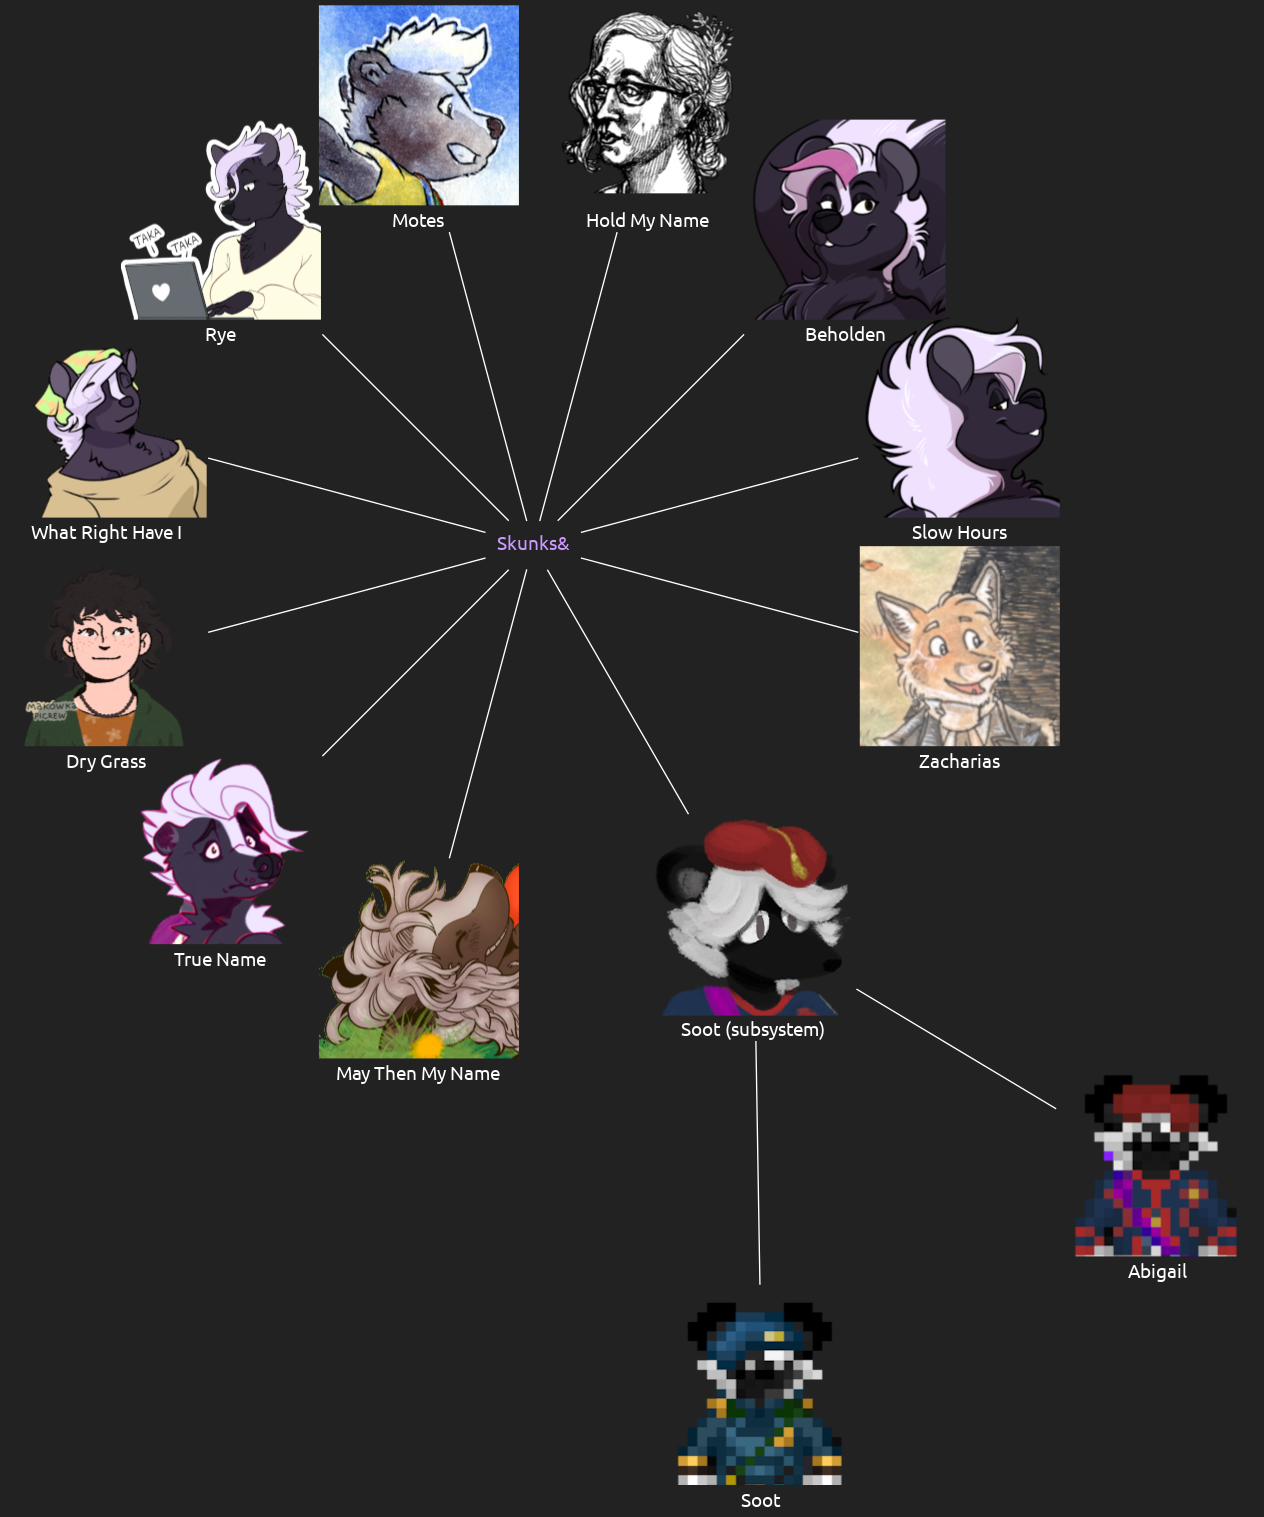
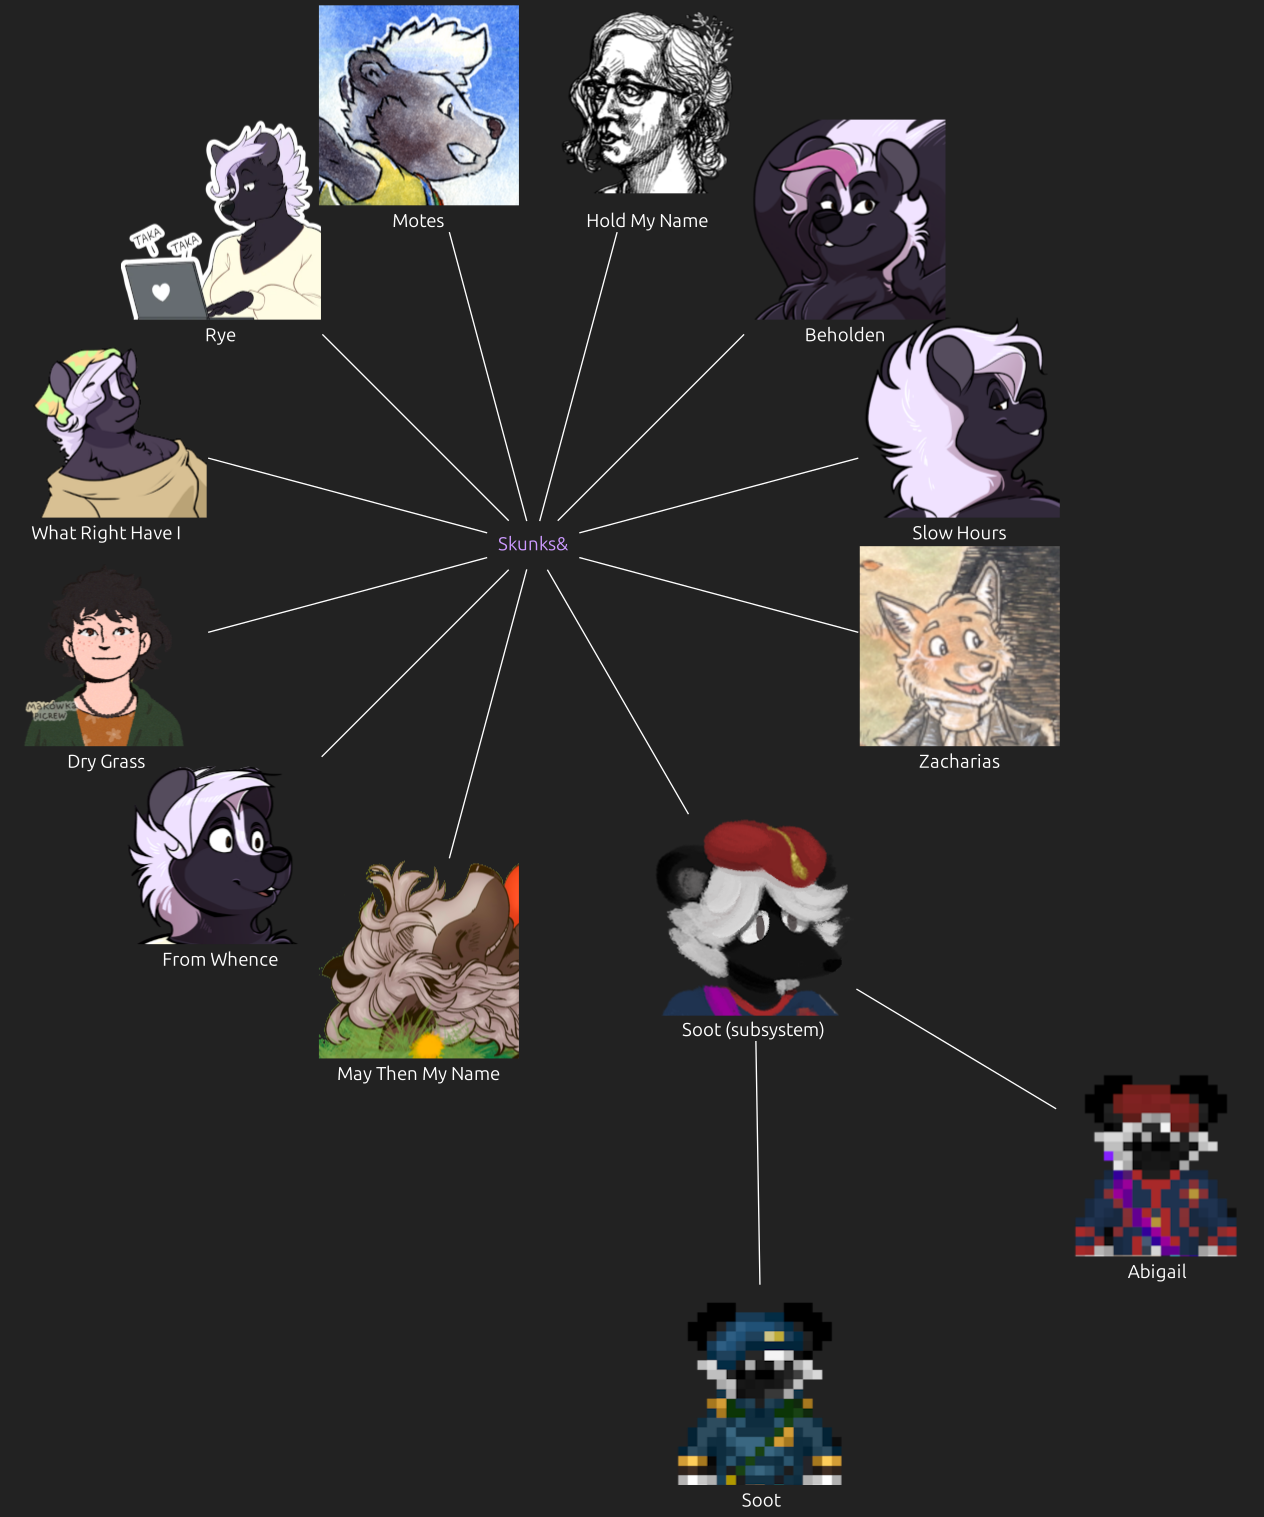
From Whence

diff --git a/plural/index.html b/plural/index.html
@@ -114,7 +114,7 @@
 <!-- system&#45;&#45;slow -->
 <g id="edge1" class="edge">
 <title>system&#45;&#45;slow</title>
-<path fill="none" stroke="#ffffff" d="M431.68,-734.41C481.74,-747.83 573.93,-772.53 639.72,-790.16"/>
+<path fill="none" stroke="#ffffff" d="M430.46,-734.08C480.22,-747.42 573.38,-772.38 639.72,-790.16"/>
 </g>
 <!-- beholden -->
 <g id="node3" class="node">
@@ -184,7 +184,7 @@
 <!-- system&#45;&#45;whatright -->
 <g id="edge6" class="edge">
 <title>system&#45;&#45;whatright</title>
-<path fill="none" stroke="#ffffff" d="M360.15,-734.41C310.09,-747.83 217.9,-772.53 152.11,-790.16"/>
+<path fill="none" stroke="#ffffff" d="M361.37,-734.08C311.61,-747.42 218.45,-772.38 152.11,-790.16"/>
 </g>
 <!-- drygrass -->
 <g id="node8" class="node">
@@ -198,21 +198,21 @@
 <!-- system&#45;&#45;drygrass -->
 <g id="edge7" class="edge">
 <title>system&#45;&#45;drygrass</title>
-<path fill="none" stroke="#ffffff" d="M360.15,-715.25C310.09,-701.83 217.9,-677.13 152.11,-659.5"/>
+<path fill="none" stroke="#ffffff" d="M361.37,-715.57C311.61,-702.24 218.45,-677.28 152.11,-659.5"/>
 </g>
-<!-- truename -->
+<!-- fromwhence -->
 <g id="node9" class="node">
-<title>truename</title>
-<g id="a_node9"><a xlink:href="#true-name" xlink:title="True Name">
-<image xlink:href="thumbs/true-name.png" width="152px" height="170px" preserveAspectRatio="xMinYMin meet" x="85.7209" y="-575.636"/>
-<text text-anchor="middle" x="161.72" y="-409.44" font-family="Ubuntu" font-size="14.00" fill="#ffffff">True Name</text>
+<title>fromwhence</title>
+<g id="a_node9"><a xlink:href="#from-whence" xlink:title="From Whence">
+<image xlink:href="thumbs/from-whence.png" width="151px" height="170px" preserveAspectRatio="xMinYMin meet" x="86.2209" y="-575.636"/>
+<text text-anchor="middle" x="161.72" y="-409.44" font-family="Ubuntu" font-size="14.00" fill="#ffffff">From Whence</text>
 </a>
 </g>
 </g>
-<!-- system&#45;&#45;truename -->
+<!-- system&#45;&#45;fromwhence -->
 <g id="edge8" class="edge">
-<title>system&#45;&#45;truename</title>
-<path fill="none" stroke="#ffffff" d="M377.54,-706.45C347.72,-676.64 287.17,-616.08 237.77,-566.69"/>
+<title>system&#45;&#45;fromwhence</title>
+<path fill="none" stroke="#ffffff" d="M377.54,-706.45C347.61,-676.53 286.73,-615.65 237.24,-566.15"/>
 </g>
 <!-- may -->
 <g id="node10" class="node">
@@ -254,7 +254,7 @@
 <!-- system&#45;&#45;zacharias -->
 <g id="edge13" class="edge">
 <title>system&#45;&#45;zacharias</title>
-<path fill="none" stroke="#ffffff" d="M431.68,-715.25C481.74,-701.83 573.93,-677.13 639.72,-659.5"/>
+<path fill="none" stroke="#ffffff" d="M430.46,-715.57C480.22,-702.24 573.38,-677.28 639.72,-659.5"/>
 </g>
 <!-- soot_soot -->
 <g id="node12" class="node">
@@ -424,19 +424,22 @@
                 </dl>
                 <hr>
 
-                <h1 id="true-name">⚖ True Name / 🐠 Holy Mind</h1>
+                <h1 id="true-name">🕯 From Whence / ⚖ True Name / 🐠 Holy Mind</h1>
                 <div class="img">
+                    <img src="thumbs/from-whence.png"><br>
+                    Art by <a href="https://cohost.org/cupsofjade" target="_blank">Jade</a><br>
                     <img src="thumbs/true-name.png"><br>
                     Art by <a href="https://dumpstercryptid.carrd.co/" target="_blank">dumpstercryptid</a><br>
-                    <img src="thumbs/holy-mind.png">
+                    <img src="thumbs/holy-mind.png"><br>
+                    Art is a SS14 sprite
                 </div>
                 <dl>
                     <dt>Name</dt>
-                    <dd>The Only Time I Know My True Name Is When I Dream#Convergence / A Holy Mind Above Fear</dd>
+                    <dd>From Whence Do I Call Out / The Only Time I Know My True Name Is When I Dream#Convergence / A Holy Mind Above Fear</dd>
                     <dt>Pronouns</dt>
                     <dd>she/her</dd>
                     <dt>Species</dt>
-                    <dd>skunk / Thaven</dd>
+                    <dd>skunk / skunk / Thaven</dd>
                     <dt>Focus</dt>
                     <dd>leadership, effective communication, organization, curating Post-Self, working towards completion, working towards earnestness</dd>
                     <dt>Mood</dt>
